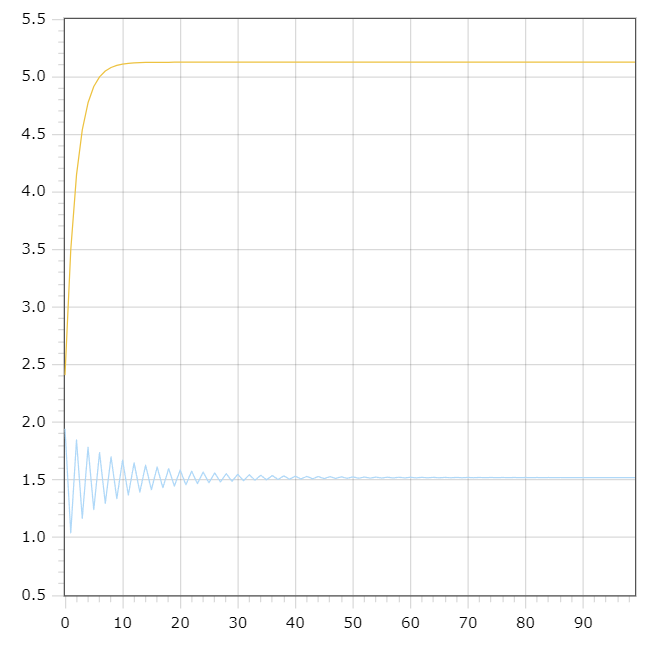
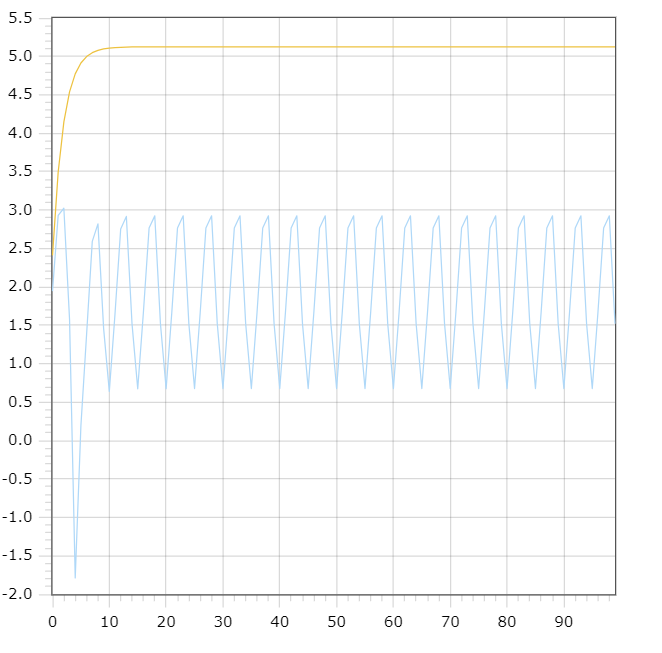
fix

diff --git a/trunk/ii02313/task_01/src/otis_1.cpp b/trunk/ii02313/task_01/src/otis_1.cpp
@@ -12,8 +12,8 @@ public:
 		return next;
 	}
 
-	double func3(double prev) {
-		double next = a * prev - prev * prev * b + u * c + d * sin(u);
+	double func3(double cur, double prev) {
+		double next = a * cur - prev * prev * b + u * c + d * sin(u);
 		return next;
 	}
 };
@@ -23,15 +23,18 @@ public:
 
 int main()
 {
-	double y1 = 0.6, prev1 = y1, prev2 = y1;
+	double y1 = 0.6,
+		   cur1 = y1, cur2 = y1, prev2 = y1;
 	int t;
 	cout << "Enter t: ";
 	cin >> t;
 	Function f;
 	for (int i = 0; i < t; i++) {
-		cout << i << ";" << f.func2(prev1) << ";" << f.func3(prev2)<< endl;
-		prev1 = f.func2(prev1);
-		prev2 = f.func3(prev2);
+		cur1 = f.func2(cur1);
+		int temp = cur2;
+		cur2 = f.func3(cur2, prev2);
+		prev2 = temp;
+		cout << i << ";" << cur1 << ";" << cur2 << endl;
 	}
 	return 0;
 }
